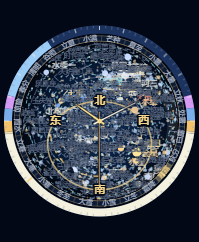
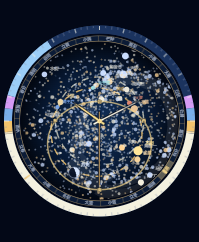
Minimize Clockology dial text

diff --git a/widgy/watch/clockology/README.md b/widgy/watch/clockology/README.md
@@ -2,6 +2,6 @@
 
 - `CosmosWhisper-Apple-Watch.ocs` 是自包含的 Clockology / OpenClockStandard 表盘文件，底图与时分秒针 PNG 均已嵌入。将文件保存到 iPhone 后，可从文件分享菜单交给 Clockology 导入。
 - 使用 Apple Watch 画布 199 × 242；圆盘贴近左右边缘，双外环收紧。刻度与日夜指示针都限制在各自环带内，为中心星盘留下更多面积。
-- Clockology 底图文字整体缩小；星座名与分割线使用比深蓝背景更浅的蓝灰色，名称字号进一步缩小。移除了 0h、6h、12h、18h、月照、无月及东北、西北、西南、东南文字。
-- 中央时针、分针、秒针是独立动态图层；秒针设置为平滑扫动。北极中心仅有单点轴心，无新增同心圈。星图和天象外圈本身为静态快照。
+- Clockology 底图中所有可见文字统一使用最小字号（4 px）；隐藏星座名称、星座分割线和连线，并移除 0h、6h、12h、18h、月照、无月及东北、西北、西南、东南文字。网页 watch 版的星座显示保持不变。
+- 中央时针、分针、秒针是独立动态图层；秒针设置为平滑扫动。北极中心仅保留指针轴心点，不绘制额外同心圈。星图和天象外圈本身为静态快照。
 - `CosmosWhisper-Apple-Watch-preview.png` 是 10:10:30 的示意预览，不代表导入后的当前时间。
